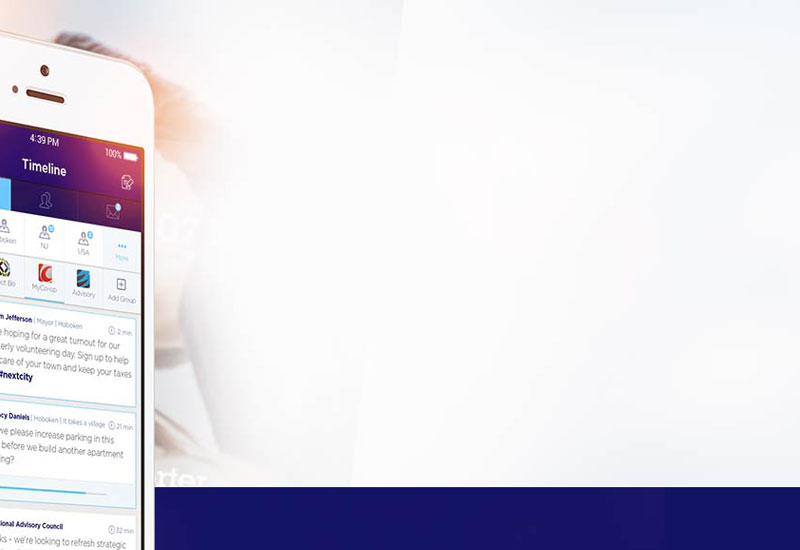
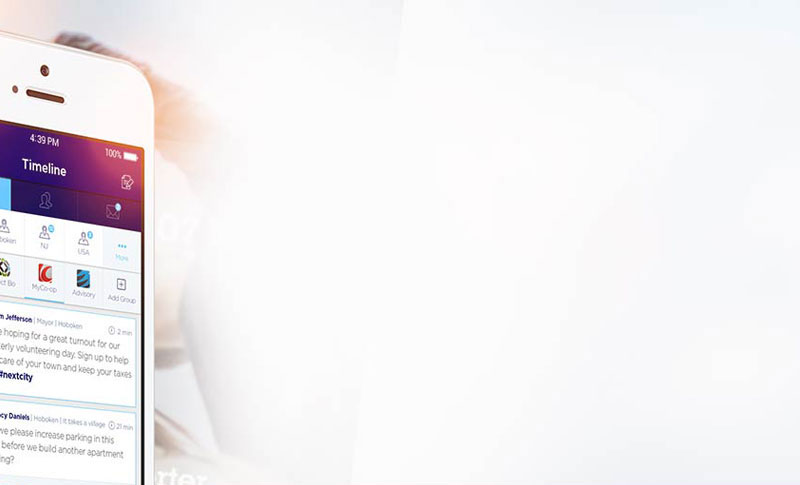
new mobile header imagee

Changed region(s): [[0.0, 0.1237, 1.0, 1.0], [0.0, 0.0619, 0.2188, 0.1856]]

diff --git a/dist/styles/main.css b/dist/styles/main.css
@@ -507,7 +507,7 @@ body.style-main .foot-list li:hover a{color:white;}
 .copyright{margin:0;color:#666699;font-family:'Quicksand';font-weight:normal !important;}
 #sp-nav{left:-104%;background:none repeat scroll 0 0 #1c1c1e;border-right:1px solid black;height:100%;position:fixed;top:0;width:200px;z-index:1000;}
 .head-menu-toggle{cursor:pointer;display:none;font-size:25px;margin:15px 0 0 15px;text-transform:uppercase;font-family:"special_eliteregular";}
-@media only screen and (max-width:340px){}@media only screen and (max-width:480px){.contain{width:95%;} .slide{float:none;width:95%;margin:0 auto;} header .logo{width:50%;} #home-header{text-align:center;background-position:right;height:100%;padding:0em 0 7em;}#home-header .slide h2{margin:0.5em auto;} #home-header p{font-size:1.25em;text-align:left;} span.home-head-banner{margin-top:2em;text-align:left;font-size:2.4em;width:95%;margin:1em auto 0;} .slide-question{display:none;}.slide-question p{width:100%;} #persona-block li{width:100%;margin:1em auto 2em;} .block{width:96%;} ul.side-list li{width:100%;margin:1em 0 1.5em;float:none;} #home-works-bg{display:none;} #empowering{background:#ffffff url("../../img/iphones_home.jpg") no-repeat scroll 60% center;background-size:cover;} #build-world{background:url("../../img/city_scape.jpg") no-repeat scroll 56% top #ffffff;background-size:cover;} #features{background:url("") no-repeat scroll center 200px,radial-gradient(ellipse at center, #004c8f 0%, #002a70 100%);}#features .home-features-list{float:none;margin:0 auto;width:95%;}#features .home-features-list li{float:none;width:95%;}#features .home-features-list li span{float:left;} #features .home-features-list li .feat-text{float:right;text-align:left;} .column{width:87%;margin:0 auto 150px;float:none;}.column:last-child{margin-bottom:0;} #testimonials li{width:85%;display:block;margin:0 auto 1.5em;float:none;} .persona .half-block{width:100%;display:block;min-height:200px;overflow:hidden;}.persona .half-block p.call{text-align:left;line-height:2.2em;}}@media only screen and (max-width:760px){#home-header{text-align:center;background:url('../../img/home_head_mobile_bg.jpg');height:100%;padding:0em 0 7em;}#home-header .slide h2{margin:0.5em auto;} #home-header p{font-size:1.25em;text-align:left;} span.home-head-banner{margin-top:2em;text-align:left;font-size:2.4em;width:95%;margin:1em auto 0;} .slide-question{display:none;}.slide-question p{width:100%;} #persona-block li{width:100%;margin:1em auto 2em;} .block{width:96%;} ul.side-list li{width:100%;margin:1em 0 1.5em;float:none;} #home-works-bg{display:none;} #empowering{background:#ffffff url("../../img/iphones_home.jpg") no-repeat scroll 60% center;background-size:cover;} #build-world{background:url("../../img/city_scape.jpg") no-repeat scroll 56% top #ffffff;background-size:cover;} #features{background:url("") no-repeat scroll center 200px,radial-gradient(ellipse at center, #004c8f 0%, #002a70 100%);} #features .home-features-list{float:none;margin:0 auto;width:95%;}#features .home-features-list li{float:none;width:95%;overflow:hidden;}#features .home-features-list li span{float:left;} #features .home-features-list li .feat-text{float:right;text-align:left;} .column{width:87%;margin:0 auto 150px;float:none;}.column:last-child{margin-bottom:0;} #testimonials li{width:85%;display:block;margin:0 auto 1.5em;float:none;} .persona .half-block{width:100%;display:block;min-height:200px;overflow:hidden;}.persona .half-block p.call{text-align:left;line-height:2.2em;} footer.action-foot.dark-grey{height:100%;}footer.action-foot.dark-grey ul{float:none;width:100%;}footer.action-foot.dark-grey ul li{display:block;text-align:center;width:100%;} footer.action-foot.dark-grey .action-foot-text{display:none;} footer.action-foot.dark-grey .foot-logo{max-width:100px;float:none;clear:both;margin:0 auto;} .foot-list{float:left;padding:0;width:47%;display:inline-block;vertical-align:top;margin-bottom:1em;min-height:250px;} .blue-block{height:100%;} .social-list{width:100%;} .blue-block .foot-contain .foot-info{float:left;}.blue-block .foot-contain .foot-info a{margin-right:2em;margin-left:0;}}@media only screen and (max-width:880px){#top-menu{float:none;margin:0 auto;height:50px;line-height:50px;} .download{width:100%;} .logo{clear:both;float:none;margin:2em auto 0;width:30%;}}@media only screen and (max-width:1000px){.top-head .logo{float:none;margin:15px auto 0;width:30%;} .top-head #top-menu{overflow:visible;width:100%;}.top-head #top-menu ul{text-align:center;} #home-header h2{line-height:1;} #empowering h2{background-color:#fafafa;padding:0.25em 0.65em;border:1px solid #dedede;} #empowering p{background-color:#fafafa;padding:0.25em 0.65em;border:1px solid #dedede;}}@media only screen and (min-width:1140px){}@media only screen and (min-width:1280px){}@media only screen and (max-width:760px){#top-menu{float:none;margin:0 auto 2em;height:100%;line-height:inherit;text-align:center;} #top-menu ul li{display:block;} #pricing-nav{width:90%;}#pricing-nav button{display:block;width:100%;}}@media only screen and (-webkit-min-device-pixel-ratio:1.5),only screen and (min-resolution:144dpi){}body.style-main{}body.style-main{font-size:12px;letter-spacing:0.5px;}
+@media only screen and (max-width:340px){}@media only screen and (max-width:480px){.contain{width:95%;} .slide{float:none;width:95%;margin:0 auto;} header .logo{width:50%;} #home-header{text-align:center;background-position:right;height:100%;padding:0em 0 7em;}#home-header .slide h2{margin:0.5em auto;} #home-header p{font-size:1.25em;text-align:left;} span.home-head-banner{margin-top:2em;text-align:left;font-size:2.4em;width:95%;margin:1em auto 0;} .slide-question{display:none;}.slide-question p{width:100%;} #persona-block li{width:100%;margin:1em auto 2em;} .block{width:96%;} ul.side-list li{width:100%;margin:1em 0 1.5em;float:none;} #home-works-bg{display:none;} #empowering{background:#ffffff url("../../img/iphones_home.jpg") no-repeat scroll 60% center;background-size:cover;} #build-world{background:url("../../img/city_scape.jpg") no-repeat scroll 56% top #ffffff;background-size:cover;} #features{background:url("") no-repeat scroll center 200px,radial-gradient(ellipse at center, #004c8f 0%, #002a70 100%);}#features .home-features-list{float:none;margin:0 auto;width:95%;}#features .home-features-list li{float:none;width:95%;}#features .home-features-list li span{float:left;} #features .home-features-list li .feat-text{float:right;text-align:left;} .column{width:87%;margin:0 auto 150px;float:none;}.column:last-child{margin-bottom:0;} #testimonials li{width:85%;display:block;margin:0 auto 1.5em;float:none;} .persona .half-block{width:100%;display:block;min-height:200px;overflow:hidden;}.persona .half-block p.call{text-align:left;line-height:2.2em;}}@media only screen and (max-width:760px){.contain{width:95%;} #top-menu{float:none;margin:0 auto 2em;height:100%;line-height:inherit;text-align:center;} #top-menu ul li{display:inline-block;} #pricing-nav{width:90%;}#pricing-nav button{display:block;width:100%;} #home-header{text-align:center;background:url('../../img/home_head_mobile_bg.jpg');height:100%;padding:0em 0 0em;border-bottom:1px solid #000066;border-top:1px solid #000006;}#home-header .slide h2{margin:0.5em auto;} #home-header p{font-size:1.25em;text-align:left;} span.home-head-banner{margin-top:2em;text-align:left;font-size:2.4em;width:95%;margin:1em auto 0;} .foot-tagline{bottom:0;z-index:1000;background-color:black;width:100% !important;margin-top:3em;position:relative;} .slide-question{float:right;right:3%;position:relative;}.slide-question p{width:100%;} #persona-block li{width:100%;margin:1em auto 2em;} .block{width:96%;} ul.side-list li{width:100%;margin:1em 0 1.5em;float:none;} #home-works-bg{display:none;} #empowering{background:#ffffff url("../../img/iphones_home.jpg") no-repeat scroll 60% center;background-size:cover;} #build-world{background:url("../../img/city_scape.jpg") no-repeat scroll 56% top #ffffff;background-size:cover;} #features{background:url("") no-repeat scroll center 200px,radial-gradient(ellipse at center, #004c8f 0%, #002a70 100%);} #features .home-features-list{float:none;margin:0 auto;width:95%;}#features .home-features-list li{float:none;width:95%;overflow:hidden;}#features .home-features-list li span{float:left;} #features .home-features-list li .feat-text{float:right;text-align:left;} .column{width:87%;margin:0 auto 150px;float:none;}.column:last-child{margin-bottom:0;} #testimonials li{width:85%;display:block;margin:0 auto 1.5em;float:none;} .persona .half-block{width:100%;display:block;min-height:200px;overflow:hidden;}.persona .half-block p.call{text-align:left;line-height:2.2em;} footer.action-foot.dark-grey{height:100%;}footer.action-foot.dark-grey ul{float:none;width:100%;}footer.action-foot.dark-grey ul li{display:block;text-align:center;width:100%;} footer.action-foot.dark-grey .action-foot-text{display:none;} footer.action-foot.dark-grey .foot-logo{max-width:100px;float:none;clear:both;margin:0 auto;} .foot-list{float:left;padding:0;width:47%;display:inline-block;vertical-align:top;margin-bottom:1em;min-height:250px;} .blue-block{height:100%;} .social-list{width:100%;} .blue-block .foot-contain .foot-info{float:left;}.blue-block .foot-contain .foot-info a{margin-right:2em;margin-left:0;}}@media only screen and (max-width:880px){#top-menu{float:none;margin:0 auto;line-height:50px;} .download{width:100%;}.download h4{margin:0.25em auto;} .logo{clear:both;float:none;margin:2em auto 0;width:30%;}}@media only screen and (max-width:1000px){.top-head .logo{float:none;margin:15px auto 0;width:30%;} .top-head #top-menu{overflow:visible;width:100%;}.top-head #top-menu ul{text-align:center;} #home-header h2{line-height:1;} #empowering h2{background-color:#fafafa;padding:0.25em 0.65em;border:1px solid #dedede;} #empowering p{background-color:#fafafa;padding:0.25em 0.65em;border:1px solid #dedede;}}@media only screen and (min-width:1140px){}@media only screen and (min-width:1280px){}@media only screen and (max-width:760px){}@media only screen and (-webkit-min-device-pixel-ratio:1.5),only screen and (min-resolution:144dpi){}body.style-main{}body.style-main{font-size:12px;letter-spacing:0.5px;}
 body.style-main{font-family:sans-serif,Arial;font-size:12px;line-height:1.7;color:#35383e;background-color:#191b65;}
 body.style-main .container{width:100%;}
 body.style-main .content-wrap{display:block;margin:0 auto;width:1000px;height:auto;padding:0 20px;}body.style-main .content-wrap:before,body.style-main .content-wrap:after{content:" ";display:table;}

diff --git a/app/less/responsive.less b/app/less/responsive.less
@@ -179,15 +179,41 @@
 
 @media only screen and (max-width:760px) {
 	
+	/* All Page Styles */
+	
+	.contain {
+		width:95%;
+	}
+	
+	#top-menu {
+	  float: none;
+	  margin: 0 auto 2em;
+	  height: 100%;
+	  line-height: inherit;
+	  text-align: center;
+	}
+	
+	#top-menu ul li {
+	  display: inline-block;
+	}
+	
+	#pricing-nav {
+		width:90%;
+		button {
+			display:block;
+			width:100%;
+		}
+	}
+	
 	/* HOME PAGE STYLES */
 
 			#home-header {
-			  text-align: center;
-			  background:  url('../../img/home_head_mobile_bg.jpg');
-			  
-			  height: 100%;
-			  padding: 0em 0 7em;
-
+			    text-align: center;
+			    background: url('../../img/home_head_mobile_bg.jpg');
+			    height: 100%;
+			    padding: 0em 0 0em;
+			    border-bottom: 1px solid #000066;
+			    border-top: 1px solid #000006;
 				.slide h2 {
 				  	margin: 0.5em auto;
 				}
@@ -206,10 +232,20 @@
 				  width: 95%;
 				  margin: 1em auto 0;
 			}
+			
+			.foot-tagline {
+				bottom: 0;
+			    z-index: 1000;
+			    background-color: black;
+			    width: 100% !important;
+			    margin-top: 3em;
+				position:relative;
+			}
 
 			.slide-question {
-				display:none;
-
+				float: right;
+			    right: 3%;
+			    position: relative;
 				p { 
 					width:100%;
 				}	
@@ -372,12 +408,14 @@
 	#top-menu {
 		float:none;
 		margin:0 auto;
-		height: 50px;
 	  	line-height: 50px;
 	}
 	
 	.download {
 		width: 100%;
+		h4 {
+			margin: 0.25em auto;
+		}
 	}
 	
 	.logo {
@@ -451,25 +489,7 @@
 
 @media only screen and (max-width:760px) {
 
-		#top-menu {
-		  float: none;
-		  margin: 0 auto 2em;
-		  height: 100%;
-		  line-height: inherit;
-		  text-align: center;
-		}
-		
-		#top-menu ul li {
-		  display: block;
-		}
-		
-		#pricing-nav {
-			width:90%;
-			button {
-				display:block;
-				width:100%;
-			}
-		}
+
 
 }
 

diff --git a/app/views/main.html b/app/views/main.html
@@ -60,9 +60,11 @@
 			
 	</section>
 	
+	<div class="foot-tagline contain" >
 		<footer class="slide-question" >
 			<p>Are you a community leader? <a   >Learn More</a ></p>
 		</footer>
+	</div>
 	
 </div>
 

diff --git a/dist/views/main.html b/dist/views/main.html
@@ -60,9 +60,11 @@
 			
 	</section>
 	
+	<div class="foot-tagline contain" >
 		<footer class="slide-question" >
 			<p>Are you a community leader? <a   >Learn More</a ></p>
 		</footer>
+	</div>
 	
 </div>
 
